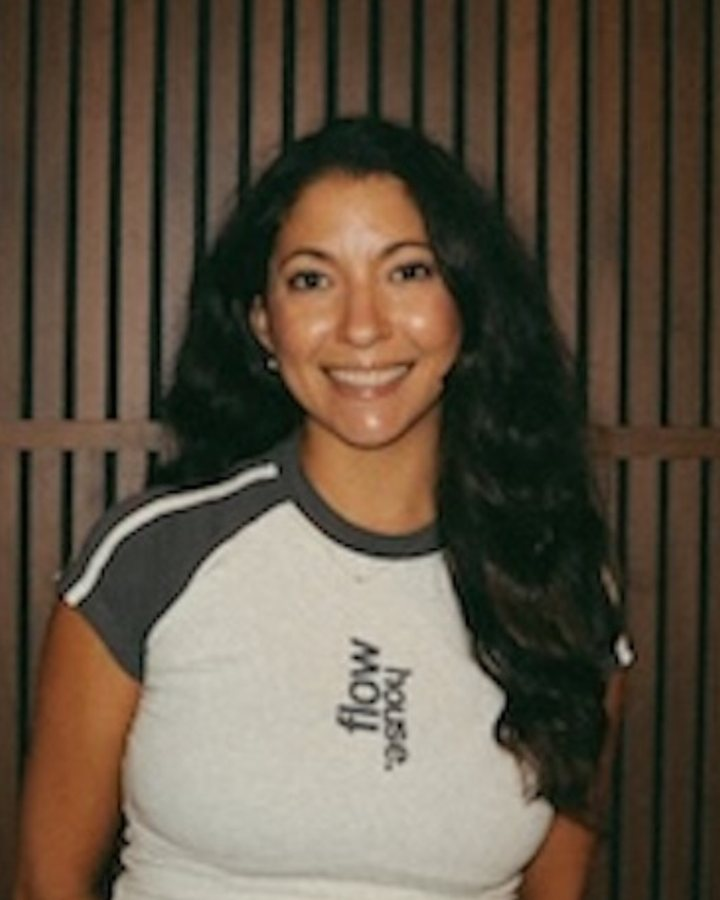
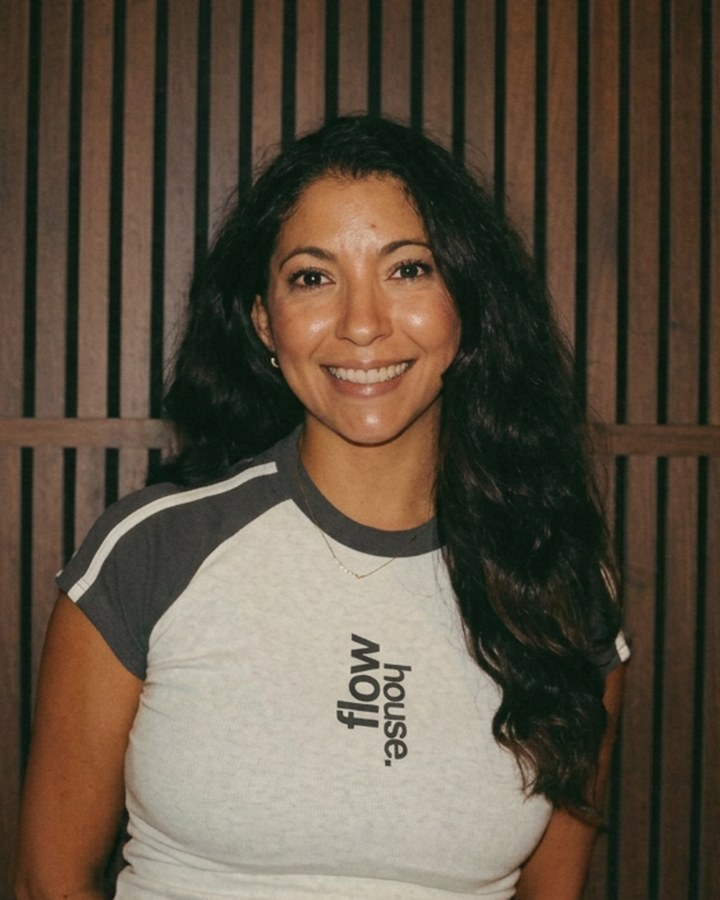
Team page: sharpen all instructor photos for consistent clarity; add Kayla (bio + IG + Spotify) from schedule app

diff --git a/src/team.html b/src/team.html
@@ -227,6 +227,18 @@
             </div>
           </div>
           <div class="roster-card">
+            <div class="roster-card__photo"><img src="images/team/kayla.jpg" alt="Kayla, flowhouse instructor" loading="lazy"></div>
+            <div class="roster-card__body">
+              <span class="eyebrow">instructor</span>
+              <strong>Kayla</strong>
+              <p>Kayla is a certified barre + sculpt instructor who believes in intensity with intention. Her classes balance challenge with moments of softness, creating space to focus inward, clear your mind, and move with purpose. Expect intentional movement, a good burn, and always a 10/10 playlist.</p>
+              <div class="roster-card__social">
+                <a href="https://www.instagram.com/kaylaburkentine" target="_blank" rel="noopener noreferrer" aria-label="Kayla on Instagram"><svg viewBox="0 0 24 24" width="15" height="15" fill="none" stroke="currentColor" stroke-width="1.6" stroke-linecap="round" stroke-linejoin="round" aria-hidden="true"><rect x="3" y="3" width="18" height="18" rx="5"/><circle cx="12" cy="12" r="4"/><circle cx="17.5" cy="6.5" r="1"/></svg><span>@kaylaburkentine</span></a>
+                <a href="https://open.spotify.com/user/31kqtepfoomovb2zxfv3lt6m3rwu?si=tNHJDpXGRdGu7KmWIhjiQA&amp;utm_source=copy-link" target="_blank" rel="noopener noreferrer" aria-label="Kayla on Spotify"><svg viewBox="0 0 24 24" width="15" height="15" fill="none" stroke="currentColor" stroke-width="1.6" stroke-linecap="round" stroke-linejoin="round" aria-hidden="true"><circle cx="12" cy="12" r="9"/><path d="M7.5 9.2c3-0.8 6.2-0.5 9 1"/><path d="M7.8 12.3c2.4-0.6 5-0.3 7.2 0.9"/><path d="M8.2 15.2c1.9-0.4 3.9-0.2 5.6 0.7"/></svg><span>Spotify</span></a>
+              </div>
+            </div>
+          </div>
+          <div class="roster-card">
             <div class="roster-card__photo"><span>fh</span></div>
             <div class="roster-card__body">
               <span class="eyebrow">could be you</span>

diff --git a/team.html b/team.html
@@ -227,6 +227,18 @@
             </div>
           </div>
           <div class="roster-card">
+            <div class="roster-card__photo"><img src="images/team/kayla.jpg" alt="Kayla, flowhouse instructor" loading="lazy"></div>
+            <div class="roster-card__body">
+              <span class="eyebrow">instructor</span>
+              <strong>Kayla</strong>
+              <p>Kayla is a certified barre + sculpt instructor who believes in intensity with intention. Her classes balance challenge with moments of softness, creating space to focus inward, clear your mind, and move with purpose. Expect intentional movement, a good burn, and always a 10/10 playlist.</p>
+              <div class="roster-card__social">
+                <a href="https://www.instagram.com/kaylaburkentine" target="_blank" rel="noopener noreferrer" aria-label="Kayla on Instagram"><svg viewBox="0 0 24 24" width="15" height="15" fill="none" stroke="currentColor" stroke-width="1.6" stroke-linecap="round" stroke-linejoin="round" aria-hidden="true"><rect x="3" y="3" width="18" height="18" rx="5"/><circle cx="12" cy="12" r="4"/><circle cx="17.5" cy="6.5" r="1"/></svg><span>@kaylaburkentine</span></a>
+                <a href="https://open.spotify.com/user/31kqtepfoomovb2zxfv3lt6m3rwu?si=tNHJDpXGRdGu7KmWIhjiQA&amp;utm_source=copy-link" target="_blank" rel="noopener noreferrer" aria-label="Kayla on Spotify"><svg viewBox="0 0 24 24" width="15" height="15" fill="none" stroke="currentColor" stroke-width="1.6" stroke-linecap="round" stroke-linejoin="round" aria-hidden="true"><circle cx="12" cy="12" r="9"/><path d="M7.5 9.2c3-0.8 6.2-0.5 9 1"/><path d="M7.8 12.3c2.4-0.6 5-0.3 7.2 0.9"/><path d="M8.2 15.2c1.9-0.4 3.9-0.2 5.6 0.7"/></svg><span>Spotify</span></a>
+              </div>
+            </div>
+          </div>
+          <div class="roster-card">
             <div class="roster-card__photo"><span>fh</span></div>
             <div class="roster-card__body">
               <span class="eyebrow">could be you</span>
